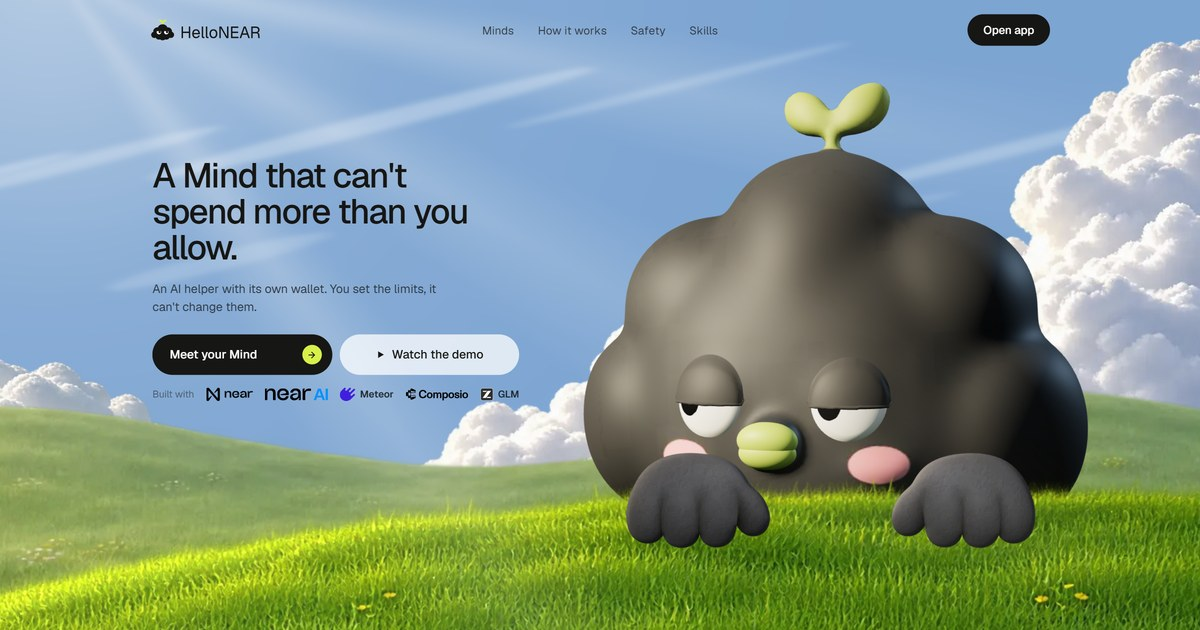
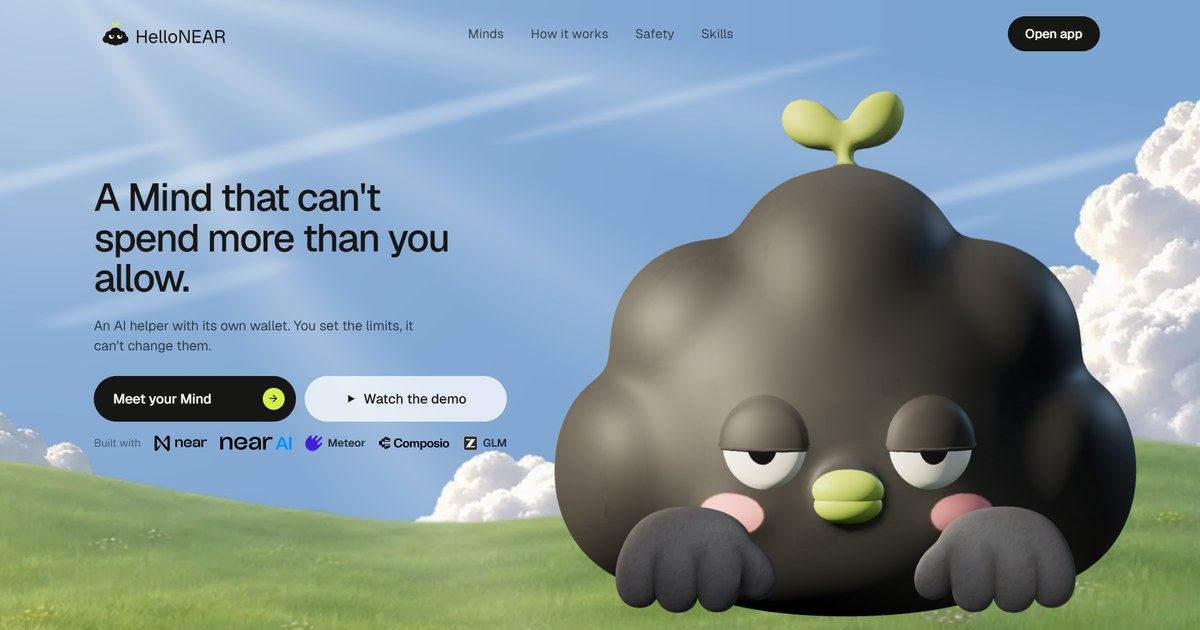
feat(landing): the link preview is Ancung's pick of the hero
Ancung picked his own screenshot of the desktop hero for the link
preview (13 Nov). It is cropped to 1.9:1 from the top and scaled to
1200 x 630, for opengraph-image.jpg and twitter-image.jpg.

diff --git a/apps/landing/CLAUDE.md b/apps/landing/CLAUDE.md
@@ -83,7 +83,7 @@ Footer (`components/Footer.tsx`): a meadow with rolling hills and the Mind sitti
 - No sideways scroll anywhere. With a classic scrollbar (Windows) the page scrolled sideways by 17 px on every desktop width: the page loader locks scrolling (`overflow: hidden` on html), so the scrollbar was gone while GSAP measured the approvals pin, and the pin kept that 17 px wider width. Fixed with `scrollbar-gutter: stable` on html, a `ScrollTrigger.refresh()` when the loader lifts (`hn:reveal`), and `overflow-x: clip` on body as a backstop. Check it with a scrollbar that takes room: Playwright with `ignoreDefaultArgs: ["--hide-scrollbars"]` and a 17 px `::-webkit-scrollbar` (headless hides scrollbars, so a plain run never shows it).
 - Scrollbars look like apps/fe's: a thin rounded thumb, no arrows, no track. The page's own bar is hidden (`scrollbar-width: none` and `html::-webkit-scrollbar`) and `components/OverlayScrollbar.tsx` draws a thin thumb over the page instead (Ancung, 12 Nov: a native bar's gutter always shows the page's background, a light strip beside the sky). It shows while scrolling or on hover at the edge, fades after 0.9 s, can be dragged, and is dark with a light edge so it reads on the sky and the night. With no bar there is no width to reserve, so `scrollbar-gutter: stable` is gone; checked with a real 17 px scrollbar at 1024, 1512 and 1920 px: no bar width, no sideways scroll.
 - A refresh starts at the hero: an inline script in `app/layout.tsx` turns off scroll restoration and drops a section hash before the page paints (Ancung, 12 Nov). Checked: a reload after scrolling and a fresh load of `/#safety` both land at the top.
-- Link previews: `app/opengraph-image.jpg` and `twitter-image.jpg` (the hero at 1200 x 630, rendered from this page in Chromium at 1600 x 840 and scaled down, with alt text files), `metadataBase` `https://hellonear.xyz`, and a large-image Twitter card. Rebuild the image if the hero changes.
+- Link previews: `app/opengraph-image.jpg` and `twitter-image.jpg` (the hero at 1200 x 630: Ancung's own screenshot of the desktop hero, picked 13 Nov, cropped to 1.9:1 from the top and scaled down; with alt text files), `metadataBase` `https://hellonear.xyz`, and a large-image Twitter card. Rebuild the image if the hero changes.
 - A light 1 px line across the Mind Graph at the bottom of the approvals scroll on scaled screens (reproduced at 175%, 1279 x 661): the graph's night now starts 2 px above that edge, so the two overlap.
 - Every stacked layout (under 1024 px) centres its title and subtitle: hero, approvals, CTA (with its buttons) and the footer's logo and line.
 
